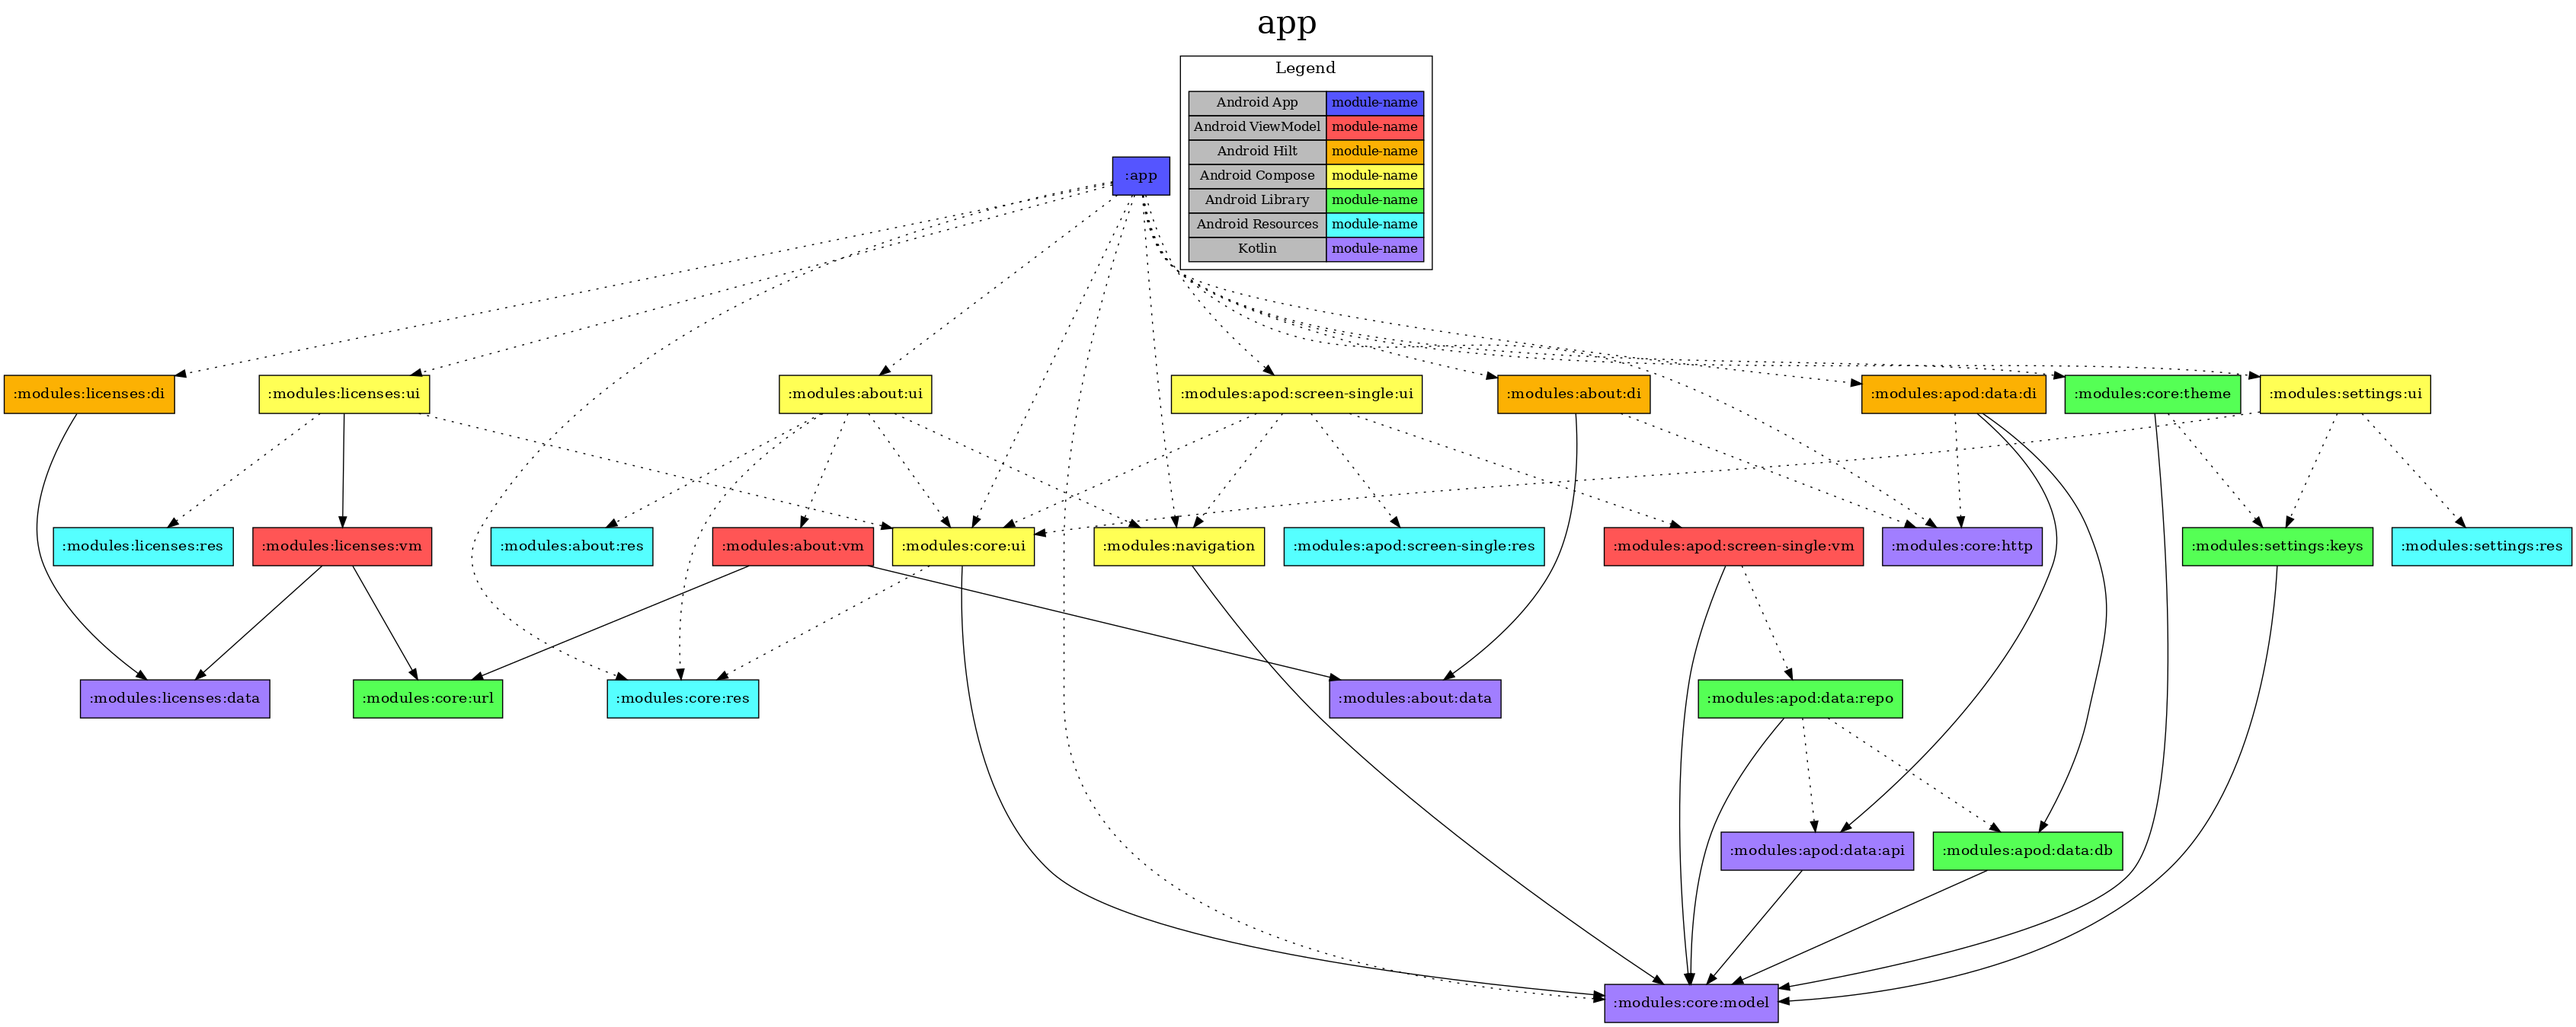
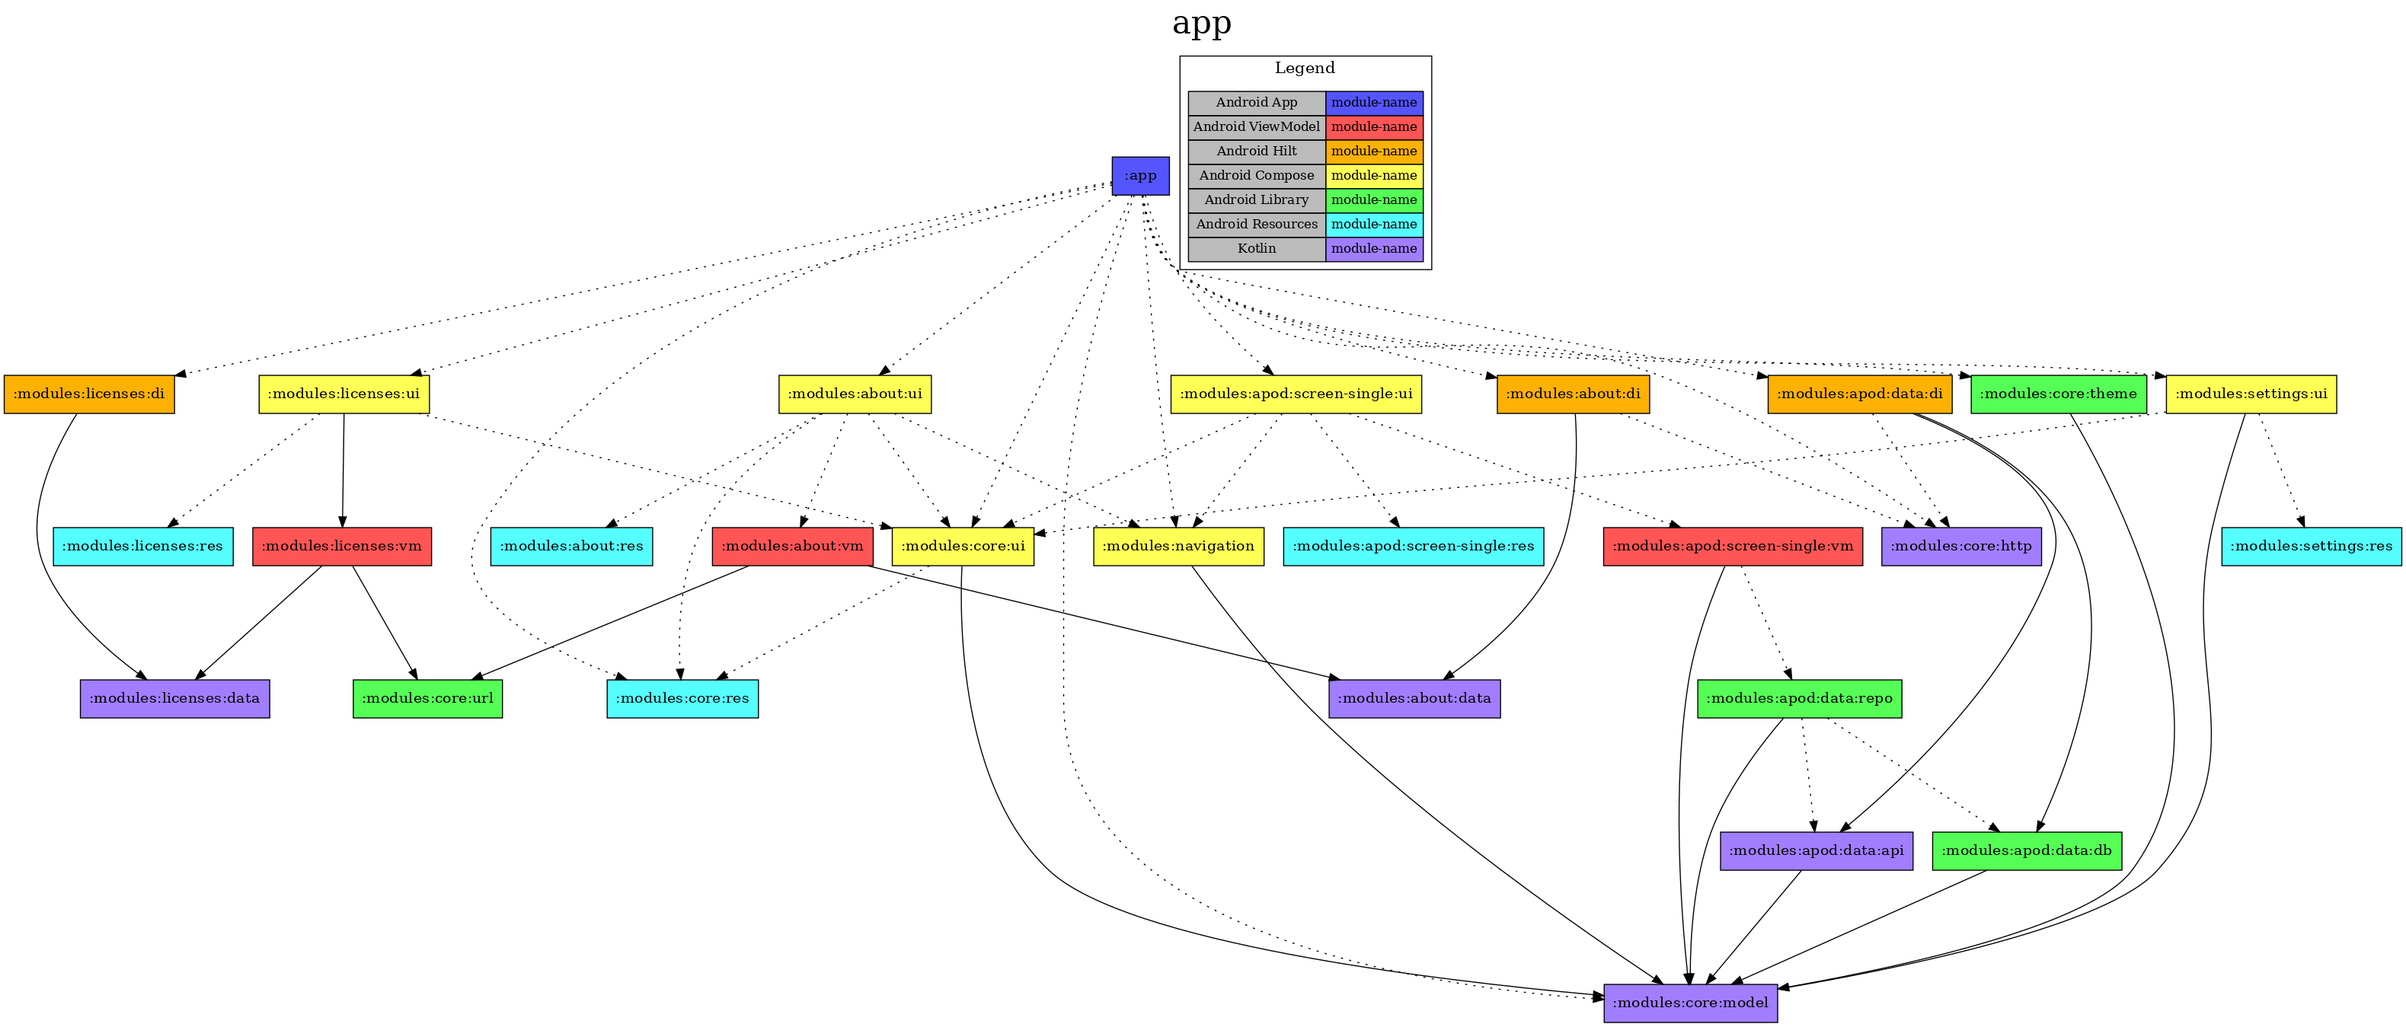
Merged settings:keys into core:model

diff --git a/modules/settings/ui/src/main/kotlin/apod/settings/ui/SettingsScreenImpl.kt b/modules/settings/ui/src/main/kotlin/apod/settings/ui/SettingsScreenImpl.kt
@@ -1,6 +1,6 @@
 package apod.settings.ui
 
-import alakazam.android.prefs.core.PrefPair
+import alakazam.kotlin.core.PrefPair
 import androidx.compose.foundation.background
 import androidx.compose.foundation.layout.Arrangement
 import androidx.compose.foundation.layout.Column
@@ -19,13 +19,13 @@ import androidx.compose.ui.Modifier
 import androidx.compose.ui.input.nestedscroll.nestedScroll
 import androidx.compose.ui.res.stringResource
 import androidx.compose.ui.util.fastMap
+import apod.core.model.SettingsKeys
 import apod.core.model.ThemeType
 import apod.core.ui.BackgroundSurface
 import apod.core.ui.color.LocalTheme
 import apod.core.ui.color.Theme
 import apod.core.ui.preview.PreviewScreen
 import apod.core.ui.preview.ScreenPreview
-import apod.settings.keys.SettingsKeys
 import apod.settings.res.R
 import kotlinx.collections.immutable.persistentListOf
 import kotlinx.collections.immutable.toPersistentList

diff --git a/modules/core/theme/src/main/kotlin/apod/core/theme/ThemePreferences.kt b/modules/core/theme/src/main/kotlin/apod/core/theme/ThemePreferences.kt
@@ -2,8 +2,8 @@ package apod.core.theme
 
 import alakazam.android.prefs.core.SimpleStringSerializer
 import alakazam.android.prefs.core.getObject
+import apod.core.model.SettingsKeys
 import apod.core.model.ThemeType
-import apod.settings.keys.SettingsKeys
 import com.fredporciuncula.flow.preferences.FlowSharedPreferences
 import com.fredporciuncula.flow.preferences.Preference
 import javax.inject.Inject

diff --git a/modules/settings/ui/src/main/kotlin/apod/settings/ui/ListPreference.kt b/modules/settings/ui/src/main/kotlin/apod/settings/ui/ListPreference.kt
@@ -1,7 +1,7 @@
 package apod.settings.ui
 
-import alakazam.android.prefs.core.PrefPair
 import alakazam.android.ui.compose.OnDispose
+import alakazam.kotlin.core.PrefPair
 import android.content.SharedPreferences
 import androidx.compose.foundation.background
 import androidx.compose.foundation.clickable

diff --git a/modules/core/model/src/main/kotlin/apod/core/model/SettingsKeys.kt b/modules/core/model/src/main/kotlin/apod/core/model/SettingsKeys.kt
@@ -1,0 +1,7 @@
+package apod.core.model
+
+import alakazam.kotlin.core.PrefPair
+
+object SettingsKeys {
+  val AppTheme = PrefPair(key = "appTheme", default = ThemeType.System)
+}

diff --git a/TODO.md b/TODO.md
@@ -16,4 +16,4 @@
 - open apod item in browser
 - enter api key in prefs
   - allow none in build scripts
-- merge settings keys into core model
+- K2
